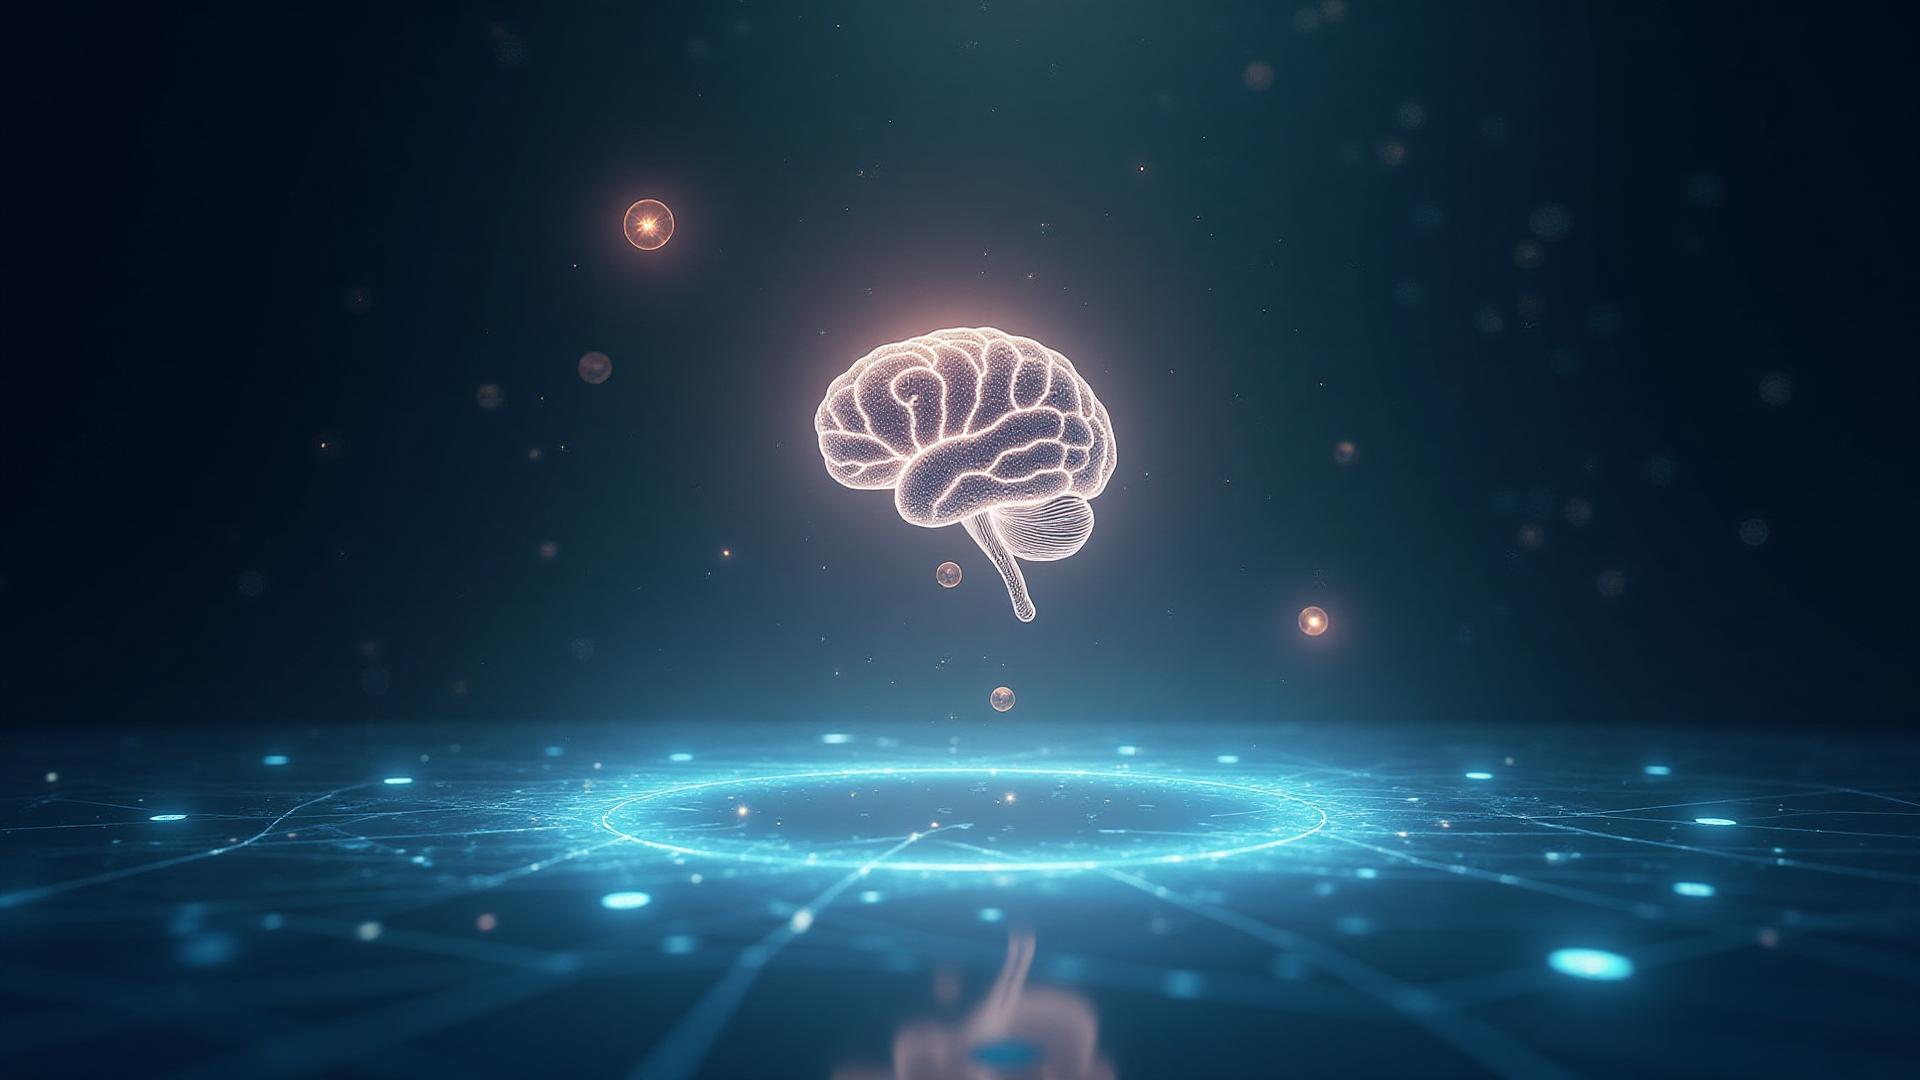
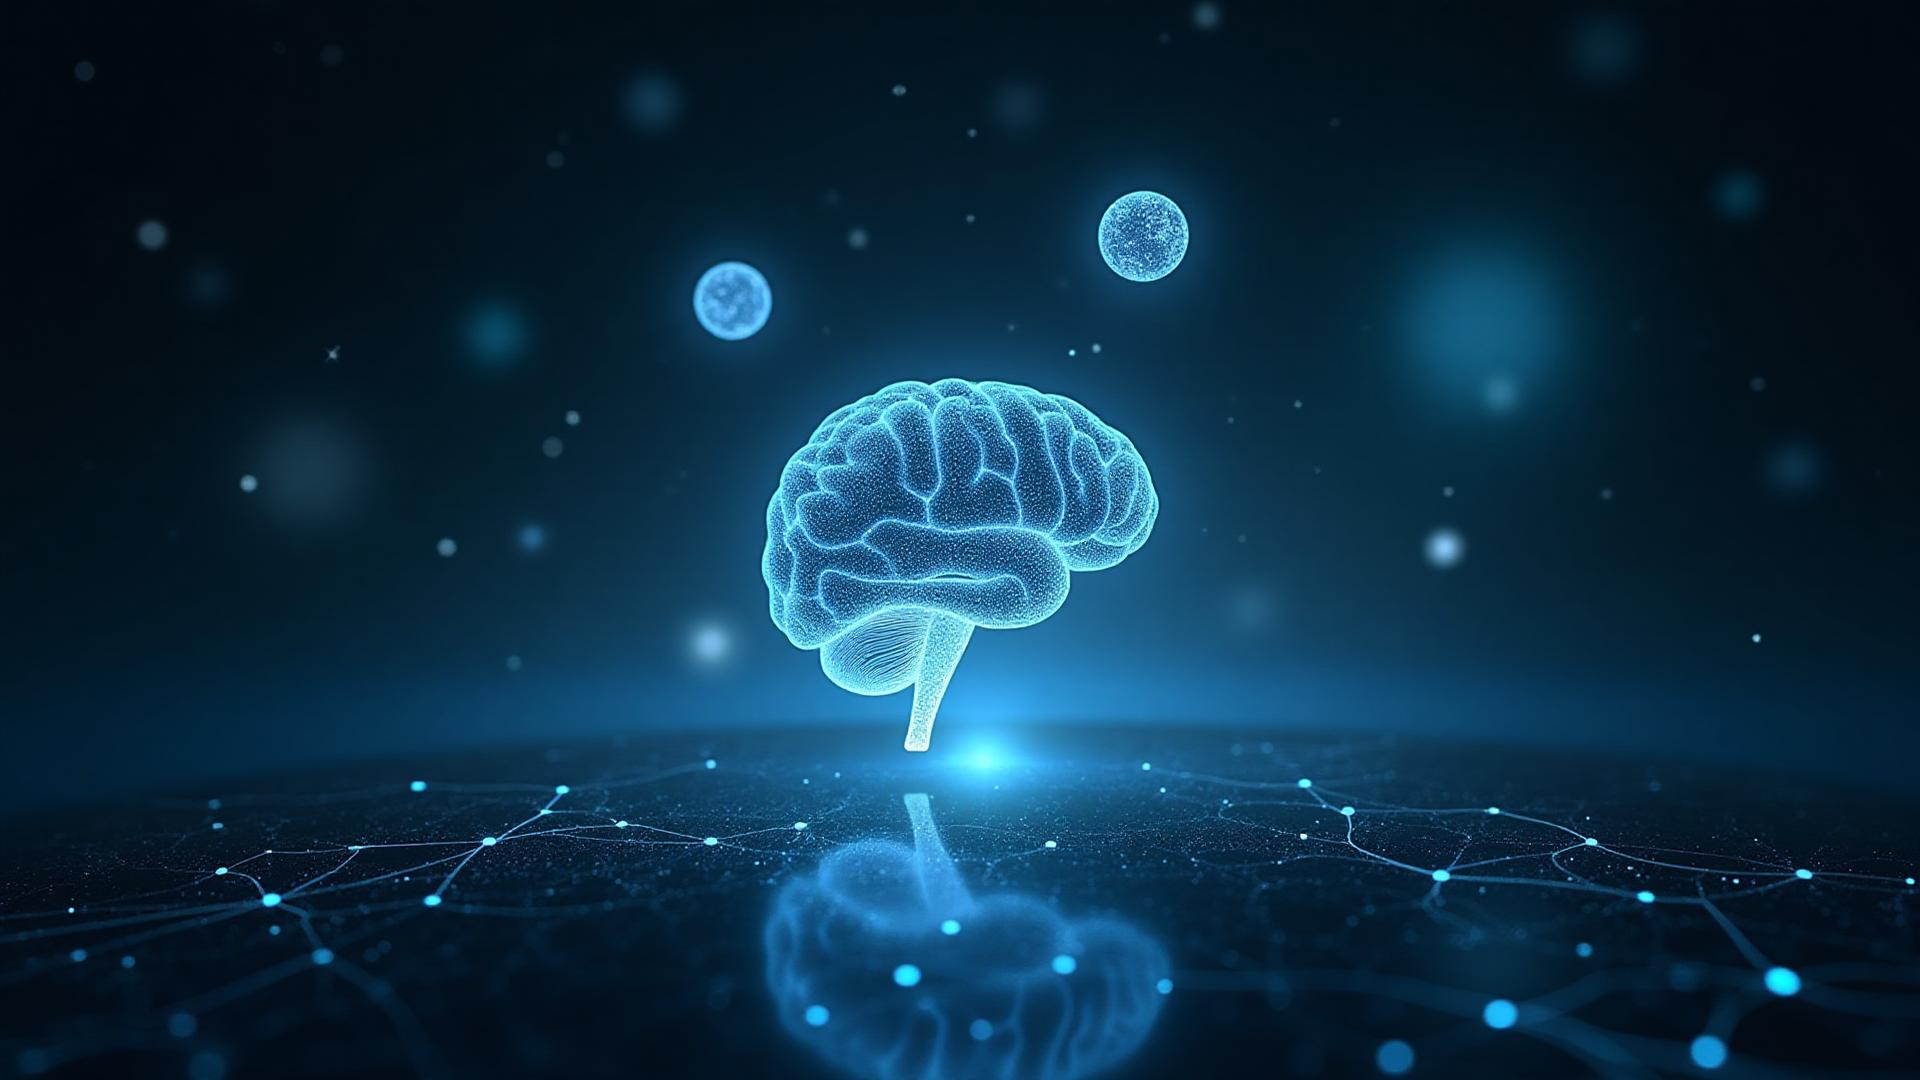
Add Firebase authentication

diff --git a/src/pages/Landing.tsx b/src/pages/Landing.tsx
@@ -2,6 +2,7 @@ import { motion } from 'framer-motion';
 import { Link } from 'react-router-dom';
 import { Brain, Heart, Shield, Users, Sparkles, ArrowRight, CheckCircle } from 'lucide-react';
 import { Button } from '@/components/ui/button';
+import heroBackground from '@/assets/hero-bg.jpg';
 
 const Landing = () => {
   const features = [
@@ -40,7 +41,11 @@ const Landing = () => {
     <div className="min-h-screen">
       {/* Hero Section */}
       <section className="hero-gradient min-h-screen flex items-center justify-center relative overflow-hidden">
-        <div className="absolute inset-0 bg-gradient-to-r from-transparent via-primary/5 to-transparent"></div>
+        <div 
+          className="absolute inset-0 bg-cover bg-center bg-no-repeat opacity-30"
+          style={{ backgroundImage: `url(${heroBackground})` }}
+        ></div>
+        <div className="absolute inset-0 bg-gradient-to-r from-background/80 via-transparent to-background/80"></div>
         
         <div className="container mx-auto px-4 sm:px-6 lg:px-8 relative z-10">
           <div className="text-center max-w-4xl mx-auto">
